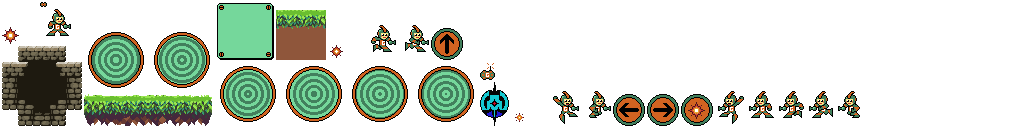
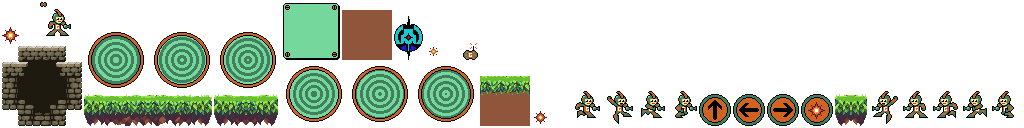
4-8-2019

Changed region(s): [[0.1875, 0.0, 0.4688, 0.9688], [0.4688, 0.5312, 1.0, 1.0]]

diff --git a/core/src/com/udacity/gamedev/gigagal/entities/Platform.java b/core/src/com/udacity/gamedev/gigagal/entities/Platform.java
@@ -1,14 +1,31 @@
 package com.udacity.gamedev.gigagal.entities;
 
+import com.badlogic.gdx.Gdx;
 import com.badlogic.gdx.graphics.g2d.SpriteBatch;
 import com.udacity.gamedev.gigagal.util.Assets;
+import com.udacity.gamedev.gigagal.util.Constants;
+import com.udacity.gamedev.gigagal.util.Enums.Direction;
+import com.udacity.gamedev.gigagal.util.Enums.PlatformRegion;
+import com.udacity.gamedev.gigagal.util.Enums.PlatformType;
+
 
 public class Platform {
 
-    public final float top;
-    public final float bottom;
-    public final float left;
-    public final float right;
+    public float top;
+    public float bottom;
+    public float left;
+    public float right;
+
+    public float width;
+    public float height;
+
+    //This is used to determine how many platforms this platform in made of; default is 1
+    public int length = 1;
+
+    //Used to determine what type of platform and what region it belongs to, default is forest thin
+    public PlatformType type = PlatformType.THIN;
+    public PlatformRegion region = PlatformRegion.FOREST;
+
     // This is used by the level loading code to link enemies and platforms.
     String identifier;
 
@@ -22,7 +39,42 @@ public class Platform {
     public void render(SpriteBatch batch) {
         final float width = right - left;
         final float height = top - bottom;
-        Assets.instance.platformAssets.platformNinePatch.draw(batch, left - 1, bottom - 1, width + 2, height + 2);
+
+        if (length > 1) {
+            for (int x = 0; x < length; x++) {
+                if (type == PlatformType.THICK) {
+                    batch.draw(Assets.instance.platformAssets.forestPlatformSolid,
+                            left + (Assets.instance.platformAssets.forestPlatformSolid.getRegionWidth() * x),
+                            bottom,
+                            Assets.instance.platformAssets.forestPlatformSolid.getRegionWidth(),
+                            Assets.instance.platformAssets.forestPlatformSolid.getRegionHeight());
+                }
+            }
+        } else {
+            if(width == 32){
+                batch.draw(Assets.instance.platformAssets.forestPlatformThinQuarter,
+                        left,
+                        bottom,
+                        width,
+                        height);
+            }
+            else if(width == 64){
+                batch.draw(Assets.instance.platformAssets.forestPlatformThinHalf,
+                        left,
+                        bottom,
+                        width,
+                        height);
+            }
+            else {
+                batch.draw(Assets.instance.platformAssets.forestPlatformThin,
+                        left,
+                        bottom,
+                        width,
+                        height);
+            }
+
+        }
+        //Assets.instance.platformAssets.platformNinePatch.draw(batch, left - 1, bottom - 1, width + 2, height + 2);
     }
 
     public String getIdentifier() {
@@ -31,5 +83,17 @@ public class Platform {
 
     public void setIdentifier(String identifier) {
         this.identifier = identifier;
+    }
+
+    public void setLength(int length) {
+        this.length = length;
+    }
+
+    public void setRegion(PlatformRegion newRegion) {
+        region = newRegion;
+    }
+
+    public void setType(PlatformType newType) {
+        type = newType;
     }
 }

diff --git a/core/src/com/udacity/gamedev/gigagal/util/LevelLoader.java b/core/src/com/udacity/gamedev/gigagal/util/LevelLoader.java
@@ -10,6 +10,8 @@ import com.udacity.gamedev.gigagal.entities.ExitPortal;
 import com.udacity.gamedev.gigagal.entities.GigaGal;
 import com.udacity.gamedev.gigagal.entities.Platform;
 import com.udacity.gamedev.gigagal.entities.Powerup;
+import com.udacity.gamedev.gigagal.util.Enums.PlatformType;
+import com.udacity.gamedev.gigagal.util.Enums.PlatformRegion;
 
 import org.json.simple.JSONArray;
 import org.json.simple.JSONObject;
@@ -35,7 +37,7 @@ public class LevelLoader {
         try {
             rootJsonObject = (JSONObject) parser.parse(file.reader());
 
-              //EXPERIMENTAL CODE
+            //EXPERIMENTAL CODE
             JSONObject composite = (JSONObject) rootJsonObject.get(Constants.LEVEL_COMPOSITE);
 
             JSONArray platforms = (JSONArray) composite.get("sComposites");
@@ -104,7 +106,7 @@ public class LevelLoader {
 
         Array<Platform> platformArray = new Array<Platform>();
 
-        for(int x = 0; x < array.size(); x++){
+        for (int x = 0; x < array.size(); x++) {
             JSONObject platformObject = (JSONObject) array.get(x);
 
             Vector2 bottomLeft = extractXY(platformObject);
@@ -112,7 +114,18 @@ public class LevelLoader {
             final float width = ((Number) platformObject.get(Constants.LEVEL_WIDTH_KEY)).floatValue();
             final float height = ((Number) platformObject.get(Constants.LEVEL_HEIGHT_KEY)).floatValue();
 
-            final Platform platform = new Platform(bottomLeft.x, bottomLeft.y + height, width, height);
+            Platform platform = new Platform(bottomLeft.x, bottomLeft.y + height, width, height);
+
+            JSONObject platformComposite = (JSONObject) platformObject.get("composite");
+
+            JSONArray platformSImages = (JSONArray) platformComposite.get("sImages");
+
+            getType(platformSImages, platform);
+            getRegion(platformSImages, platform);
+
+            if (platformSImages.size() > 1) {
+                platform.setLength(platformSImages.size());
+            }
 
             platformArray.add(platform);
 
@@ -167,5 +180,37 @@ public class LevelLoader {
         level.getPlatforms().addAll(platformArray);
 
     }
+
+    private static void getType(JSONArray sImages, Platform platform) {
+        JSONObject rootPlatform = (JSONObject) sImages.get(0);
+
+        String platformType = (String) rootPlatform.get("imageName");
+
+        if (platformType.contains("solid")) {
+            platform.setType(PlatformType.THICK);
+        } else if (platformType.contains("thin")) {
+            platform.setType(PlatformType.THIN);
+        } else {
+            Gdx.app.error(TAG, "Invalid platform type");
+        }
+    }
+
+    private static void getRegion(JSONArray sImages, Platform platform) {
+        JSONObject rootPlatform = (JSONObject) sImages.get(0);
+
+        String platformRegion = (String) rootPlatform.get("imageName");
+
+        if (platformRegion.contains("forest")) {
+            platform.setRegion(PlatformRegion.FOREST);
+        } else if (platformRegion.contains("castle")) {
+            platform.setRegion(PlatformRegion.CASTLE);
+        } else if (platformRegion.contains("mountain")) {
+            platform.setRegion(PlatformRegion.MOUNTAIN);
+        } else {
+            Gdx.app.error(TAG, "Invalid platform region");
+        }
+
+    }
+
 
 }

diff --git a/core/src/com/udacity/gamedev/gigagal/entities/GigaGal.java b/core/src/com/udacity/gamedev/gigagal/entities/GigaGal.java
@@ -94,16 +94,17 @@ public class GigaGal {
             }
 
             for (Platform platform : platforms) {
-                if (landedOnPlatform(platform)) {
+                if (landedOnPlatform(platform, delta)) {
                     jumpState = Enums.JumpState.GROUNDED;
                     velocity.y = 0;
                     velocity.x = 0;
                     position.y = platform.top + Constants.GIGAGAL_EYE_HEIGHT;
+
                 }
             }
         }
 
-        // Collide with enemies
+        // Collide with enemies TODO Clean up this garbage
         Rectangle gigaGalBounds = new Rectangle(
                 position.x - Constants.GIGAGAL_STANCE_WIDTH / 2,
                 position.y - Constants.GIGAGAL_EYE_HEIGHT,
@@ -202,7 +203,7 @@ public class GigaGal {
         }
     }
 
-    boolean landedOnPlatform(Platform platform) {
+    boolean landedOnPlatform(Platform platform, float delta) {
         boolean leftFootIn = false;
         boolean rightFootIn = false;
         boolean straddle = false;
@@ -216,6 +217,7 @@ public class GigaGal {
             leftFootIn = (platform.left < leftFoot && platform.right > leftFoot);
             rightFootIn = (platform.left < rightFoot && platform.right > rightFoot);
             straddle = (platform.left > leftFoot && platform.right < rightFoot);
+
         }
         return leftFootIn || rightFootIn || straddle;
     }

diff --git a/core/src/com/udacity/gamedev/gigagal/util/Constants.java b/core/src/com/udacity/gamedev/gigagal/util/Constants.java
@@ -23,7 +23,8 @@ public class Constants {
 
     public static final float JUMP_SPEED = 200;
     public static final Vector2 KNOCKBACK_VELOCITY = new Vector2(200, 200);
-    public static final float MAX_JUMP_DURATION = .1f;
+    //ORIGINAL VALUE public static final float MAX_JUMP_DURATION = .1f;
+    public static final float MAX_JUMP_DURATION = .25f;
     public static final int INITIAL_AMMO = 10;
     public static final int INITIAL_LIVES = 3;
 
@@ -40,8 +41,13 @@ public class Constants {
     public static final float WALK_LOOP_DURATION = 0.25f;
 
     // Platform
-    public static final String PLATFORM_SPRITE = "platform";
-    public static final int PLATFORM_EDGE = 8;
+
+    public static final String FOREST_PLATFORM_SOLID = "forest_platform_solid";
+    public static final String FOREST_PLATFORM_THIN = "forest_platform_thin";
+    public static final String FOREST_PLATFORM_THIN_HALF = "forest_platform_thin_half";
+    public static final String FOREST_PLATFORM_THIN_QUARTER = "forest_platform_thin_quarter";
+    //public static final String PLATFORM_SPRITE = "platform";
+    //public static final int PLATFORM_EDGE = 8;
 
     // Enemy
     public static final String ENEMY_SPRITE = "enemy";

diff --git a/core/src/com/udacity/gamedev/gigagal/util/Assets.java b/core/src/com/udacity/gamedev/gigagal/util/Assets.java
@@ -105,12 +105,22 @@ public class Assets implements Disposable, AssetErrorListener {
 
     public class PlatformAssets {
 
-        public final NinePatch platformNinePatch;
+        public final AtlasRegion forestPlatformSolid;
+        public final AtlasRegion forestPlatformThin;
+        public final AtlasRegion forestPlatformThinHalf;
+        public final AtlasRegion forestPlatformThinQuarter;
+
 
         public PlatformAssets(TextureAtlas atlas) {
-            AtlasRegion region = atlas.findRegion(Constants.PLATFORM_SPRITE);
-            int edge = Constants.PLATFORM_EDGE;
-            platformNinePatch = new NinePatch(region, edge, edge, edge, edge);
+            forestPlatformSolid = atlas.findRegion(Constants.FOREST_PLATFORM_SOLID);
+            forestPlatformThin = atlas.findRegion(Constants.FOREST_PLATFORM_THIN);
+            forestPlatformThinHalf = atlas.findRegion(Constants.FOREST_PLATFORM_THIN_HALF);
+            forestPlatformThinQuarter = atlas.findRegion(Constants.FOREST_PLATFORM_THIN_QUARTER);
+
+
+
+            //int edge = Constants.PLATFORM_EDGE;
+            //platformNinePatch = new NinePatch(region, edge, edge, edge, edge);
         }
     }
 

diff --git a/core/src/com/udacity/gamedev/gigagal/util/Enums.java b/core/src/com/udacity/gamedev/gigagal/util/Enums.java
@@ -5,7 +5,7 @@ public class Enums {
 
 
     public enum Direction {
-        LEFT, RIGHT
+        LEFT, RIGHT, UP, DOWN
     }
 
     public enum JumpState {
@@ -18,5 +18,16 @@ public class Enums {
     public enum WalkState {
         NOT_WALKING,
         WALKING
+    }
+
+    public enum PlatformRegion{
+        FOREST,
+        CASTLE,
+        MOUNTAIN
+    }
+
+    public enum PlatformType{
+        THICK,
+        THIN
     }
 }

diff --git a/core/src/com/udacity/gamedev/gigagal/Level.java b/core/src/com/udacity/gamedev/gigagal/Level.java
@@ -55,7 +55,7 @@ public class Level {
 
     public static Level debugLevel() {
         Level level = new Level();
-        level.initializeDebugLevel();
+        //level.initializeDebugLevel();
         return level;
     }
 
@@ -71,6 +71,8 @@ public class Level {
         }
 
         if (!gameOver && !victory) {
+
+
 
             gigaGal.update(delta, platforms);
 

diff --git a/core/src/com/udacity/gamedev/gigagal/GameplayScreen.java b/core/src/com/udacity/gamedev/gigagal/GameplayScreen.java
@@ -126,3 +126,4 @@ public class GameplayScreen extends ScreenAdapter {
         startNewLevel();
     }
 }
+
